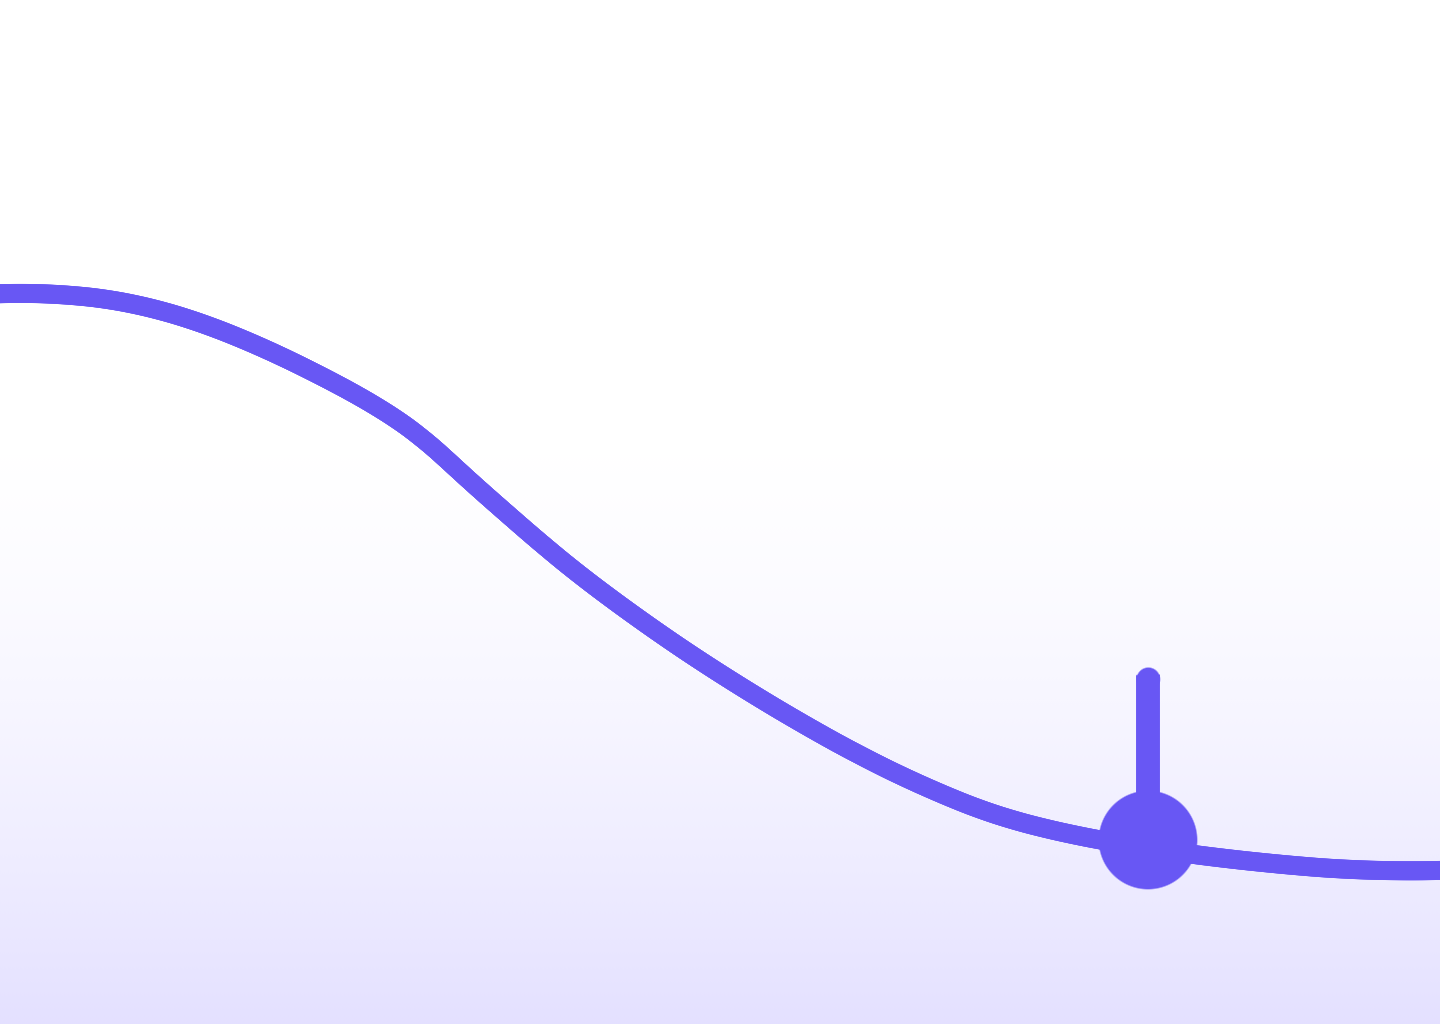
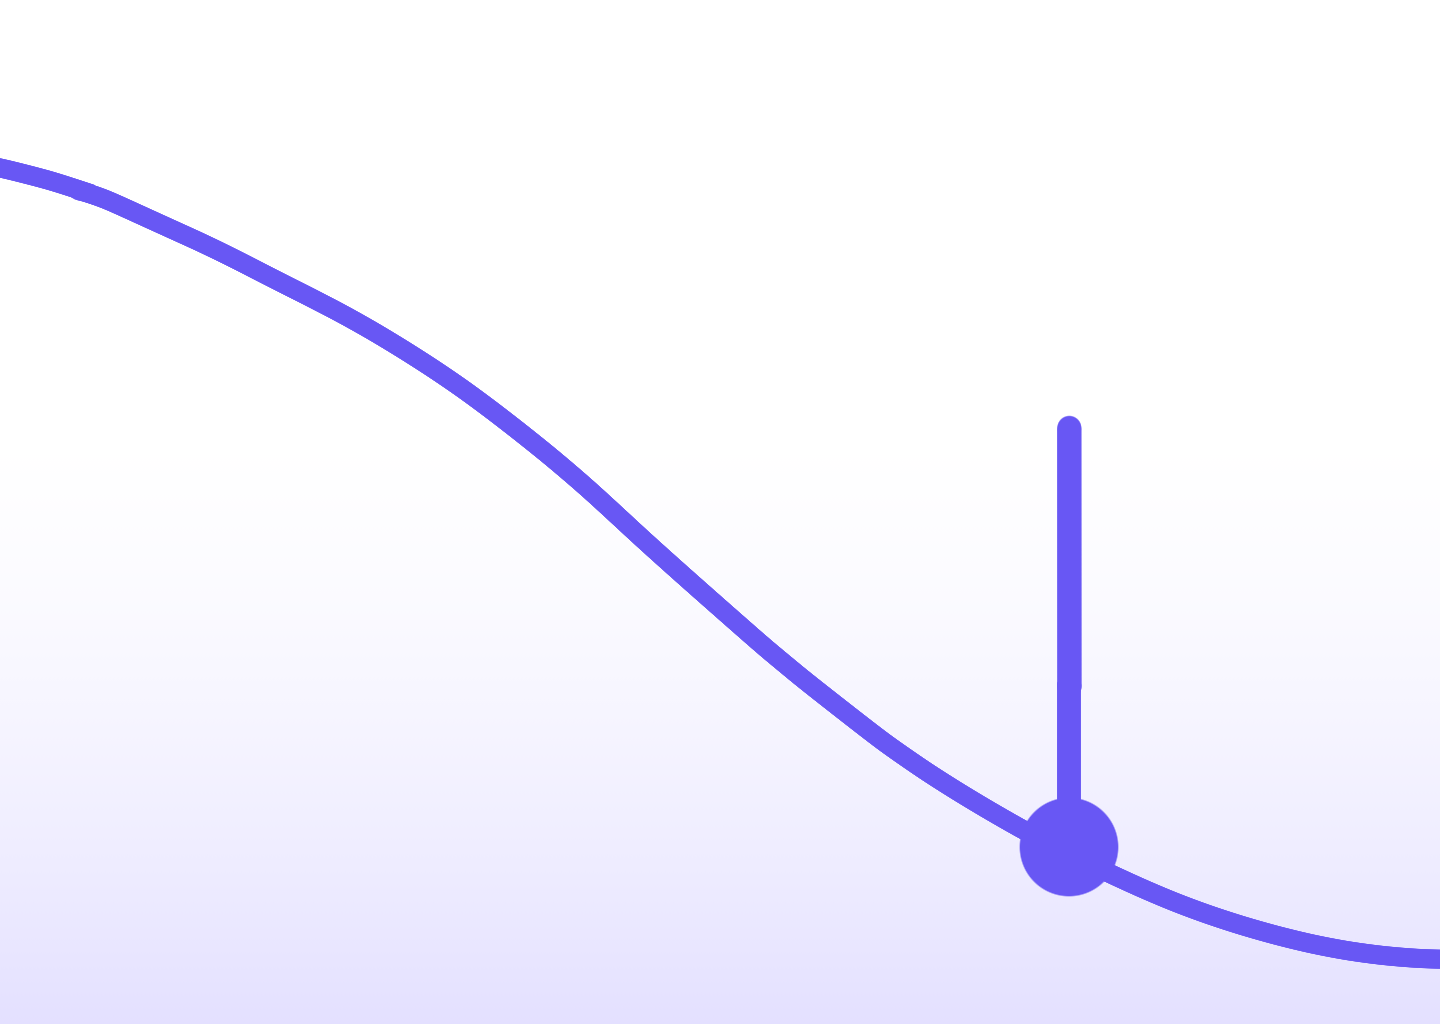
자기계발 element 위치 수정

Changed region(s): [[0.0, 0.1562, 1.0, 0.9688], [0.2812, 0.3438, 0.375, 0.4375]]

diff --git a/2024act/2024act/src/main/resources/static/assets/stylesheets/future/page_3.css b/2024act/2024act/src/main/resources/static/assets/stylesheets/future/page_3.css
@@ -11,8 +11,8 @@ body {
 #container1 {
     /*top: 50px;*/
     /*left: 200px;*/
-    top: 65%;
-    left: 55%;
+    top: 36%;
+    left: 50%;
     z-index: 3; /* z-index 속성 추가 */
 
 }
